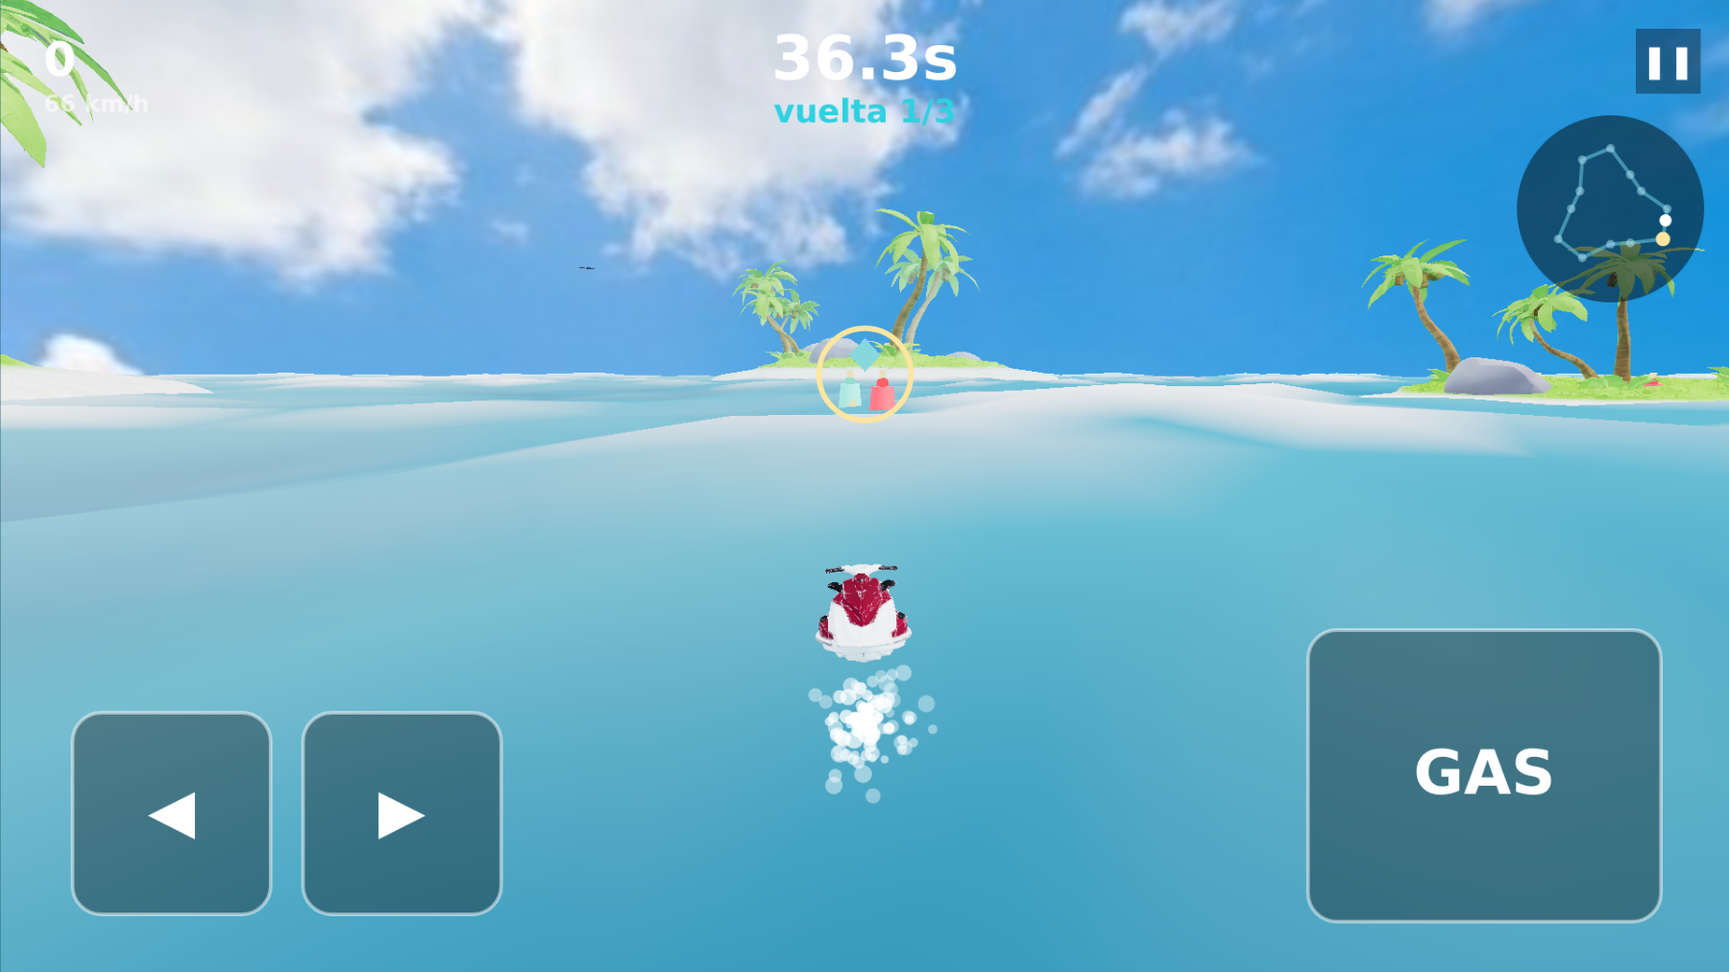
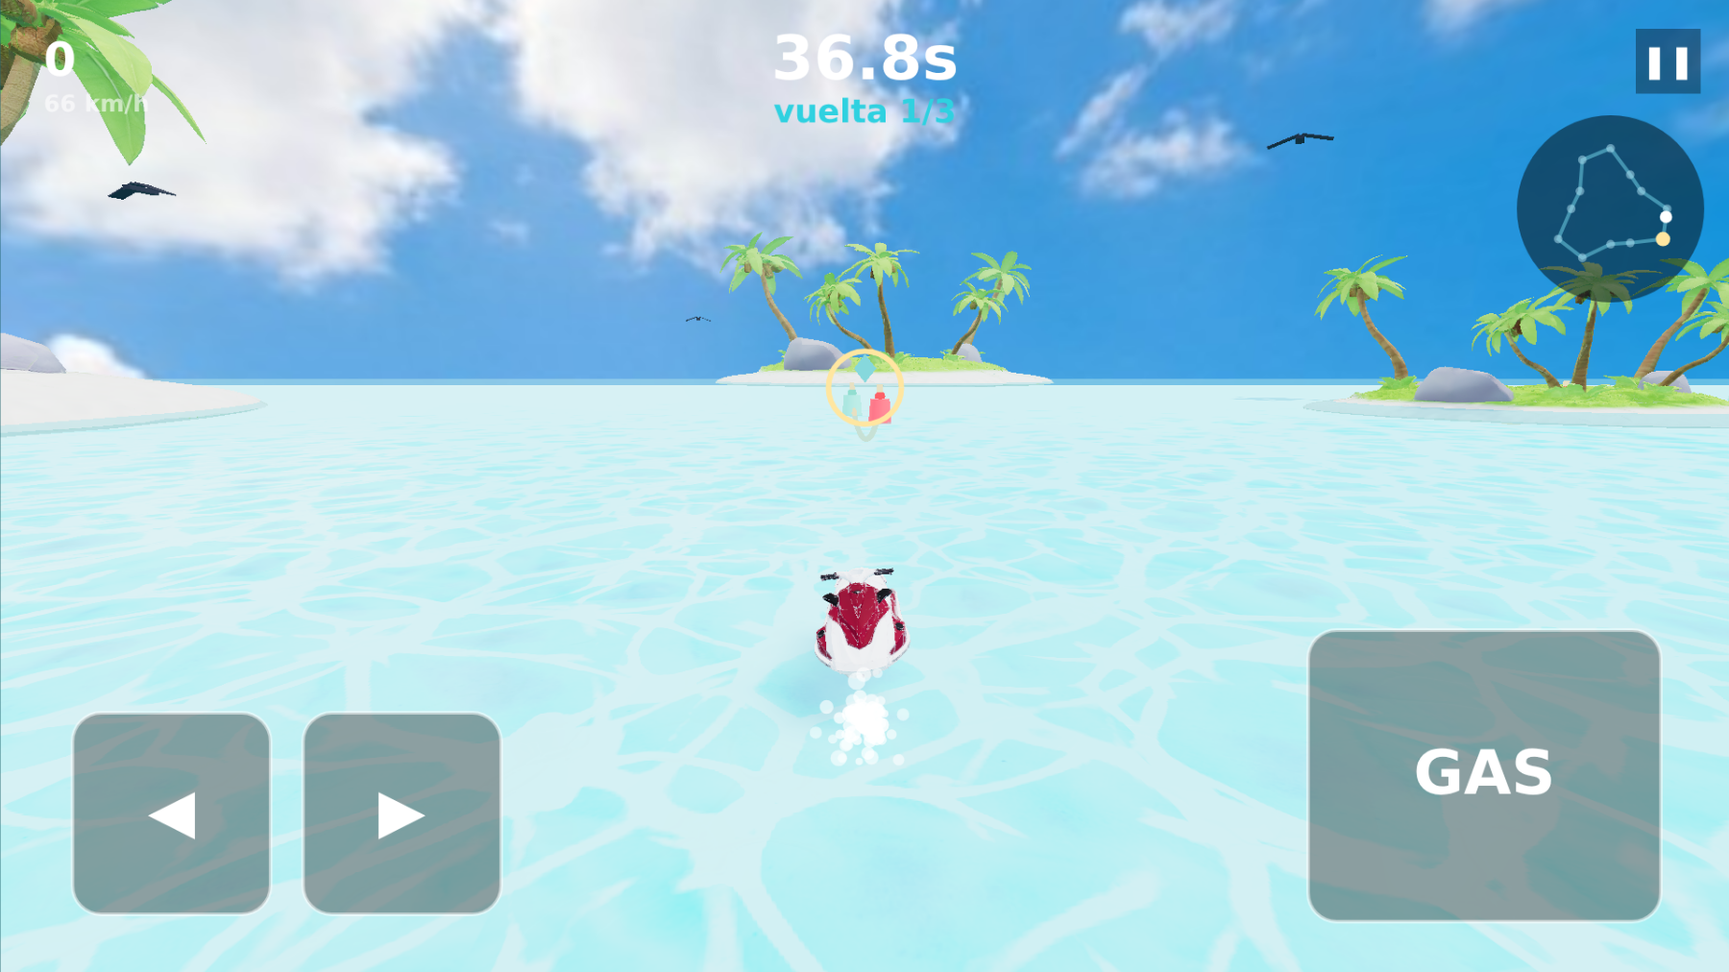
MAREA agua cristalina de pileta (arena + causticas animadas, olitas finas) + sombras en tiempo real
- agua transparente sobre fondo de ARENA con CAUSTICAS aditivas que titilan
  (como pileta), ripple fino por bumpMap animado, reflejo del cielo
- olitas mas chicas y numerosas; la moto flota/cabecea con fisica sobre ellas
- shadowMap PCFSoft en el motor; MAREA y ALAS proyectan sombras (sol castShadow),
  y las piezas de LIFE (islas/palmeras/gente) castean/reciben sombra

Claude-Session: https://claude.ai/code/session_01LeCMTwoYHMT9fB8r5t3yQe

diff --git a/scratchpad/g3/g_marea.js b/scratchpad/g3/g_marea.js
@@ -1,13 +1,12 @@
-/* ===== MAREA — moto de agua (laguna tropical de día) =======================
-   CIRCUITO de boyas sobre un océano con OLAS REALES (malla desplazada +
-   espuma en las crestas + reflejo del cielo). La moto FLOTA con físicas:
-   rebota, cabecea y se inclina según el oleaje. Islas 3D grandes. 3 modos.
-   Controles: ◀ ▶ + acelerador (multitáctil) / A-D + W. */
+/* ===== MAREA — moto de agua (laguna tropical cristalina) ===================
+   Agua tipo pileta: CRISTALINA, se ve la ARENA del fondo con CÁUSTICAS que
+   titilan, olitas chiquitas y muchas, reflejo del cielo y SOMBRAS en tiempo
+   real. La moto flota con físicas. Circuito de boyas · 3 modos. */
 window.GAME = (function () {
 let T, scene, cam, ren;
 let craft, sx, sz, yaw, v, bank, timeLeft, score, streak, dead, tPlay, won;
 let craftY, cvy, pitchP, rollP;
-let keys = {}, water = null, waterGeo = null, baseXZ = null, colAttr = null, sprayT = 0;
+let keys = {}, water = null, caus1 = null, caus2 = null, sprayT = 0;
 let GATES = [], gGroups = [], gi = 0, laps = 0, mark = null;
 let pad = null, ISL = [], vCruise = 18, vMax = 34, autoIx = null, autoBoost = false;
 
@@ -16,63 +15,59 @@ try { cfg.modo = localStorage.getItem('marea_modo') || 'circuito'; cfg.dif = loc
 const DIF = { chill: { v: 25, t: 45, laps: 2 }, normal: { v: 31, t: 38, laps: 3 }, pro: { v: 39, t: 32, laps: 3 } };
 const NG = 12;
 
-/* olas: suma de senos multi-octava (oleaje grande + chop fino) */
+/* olitas: muchas y chiquitas (agua de pileta, casi plana) */
 function waveH(x, z, t) {
-  return Math.sin(x * .05 + t * 1.4) * .7
-       + Math.sin(z * .043 - t * 1.0) * .8
-       + Math.sin((x + z) * .09 + t * 1.8) * .68
-       + Math.sin((x * .9 - z * .6) * .16 + t * 2.4) * .5
-       + Math.sin((x * 1.5 + z * 1.1) * .24 - t * 3.2) * .3;
-}
-// color por altura: cresta blanca (espuma), valle turquesa profundo → NO flat
-function foamCol(h, c, i) {
-  const f = h > .8 ? Math.min(1, (h - .8) / .8) : 0;      // espuma en crestas
-  const d = h < 0 ? Math.min(1, -h / 1.6) : 0;            // profundidad en valles
-  c[i] = .035 * (1 - d * .4) + f * .965;
-  c[i + 1] = (.30 - d * .15) + f * .70;
-  c[i + 2] = (.44 - d * .18) + f * .56;
+  return Math.sin(x * .18 + t * 1.6) * .14 + Math.sin(z * .16 - t * 1.3) * .15
+       + Math.sin((x + z) * .30 + t * 2.4) * .07 + Math.sin((x * 1.1 - z * .7) * .5 + t * 3.4) * .04;
 }
 
-function buildCircuit() {
-  GATES = [];
-  for (let i = 0; i < NG; i++) { const a = i / NG * 6.283; const r = 155 * (.82 + .26 * Math.sin(a * 3 + .6));
-    GATES.push({ x: Math.cos(a) * r, z: Math.sin(a) * r }); }
-}
+function buildCircuit() { GATES = [];
+  for (let i = 0; i < NG; i++) { const a = i / NG * 6.283; const r = 155 * (.82 + .26 * Math.sin(a * 3 + .6)); GATES.push({ x: Math.cos(a) * r, z: Math.sin(a) * r }); } }
 
 async function init3d(THREE) {
   T = THREE; scene = ARC.scene; cam = ARC.cam; ren = ARC.renderer;
   const tl = new T.TextureLoader();
   const sky = tl.load(TEX.sky); sky.mapping = T.EquirectangularReflectionMapping; sky.colorSpace = T.SRGBColorSpace;
   scene.background = sky; scene.environment = sky;
-  scene.fog = new T.Fog(0xbfe4ee, 180, 560);
-  scene.add(new T.HemisphereLight(0xffffff, 0x2a6a8a, 1.35));
-  scene.add(new T.AmbientLight(0xffffff, .35));
-  const sun = new T.DirectionalLight(0xfff4e0, 2.7); sun.position.set(-40, 40, -30); scene.add(sun);
+  scene.fog = new T.Fog(0xbfe8f0, 220, 620);
+  scene.add(new T.HemisphereLight(0xffffff, 0x3aa0c0, 1.2));
+  scene.add(new T.AmbientLight(0xffffff, .3));
+  const sun = new T.DirectionalLight(0xfff6e6, 2.6); sun.position.set(-50, 95, -35);
+  sun.castShadow = true; sun.shadow.mapSize.set(1024, 1024);
+  const sc = sun.shadow.camera; sc.left = -130; sc.right = 130; sc.top = 130; sc.bottom = -130; sc.near = 1; sc.far = 220; sun.shadow.bias = -0.0006;
+  scene.add(sun);
   ren.toneMappingExposure = 1.16;
-  // OCÉANO con olas reales + espuma (color por vértice) + reflejo del cielo
-  waterGeo = new T.PlaneGeometry(1100, 1100, 96, 96); waterGeo.rotateX(-Math.PI / 2);
-  const pos = waterGeo.attributes.position; baseXZ = Float32Array.from(pos.array);
-  colAttr = new T.Float32BufferAttribute(new Float32Array(pos.count * 3), 3); waterGeo.setAttribute('color', colAttr);
-  water = new T.Mesh(waterGeo, new T.MeshStandardMaterial({ vertexColors: true, roughness: .26, metalness: .1, envMap: sky, envMapIntensity: .6 }));
-  scene.add(water);
-  const glint = new T.PointLight(0xffffff, 1.6, 140); glint.position.set(-30, 10, -40); scene.add(glint);
+  const rep = (u, n) => { const t = tl.load(u); t.wrapS = t.wrapT = T.RepeatWrapping; t.repeat.set(n, n); t.colorSpace = T.SRGBColorSpace; return t; };
+  // FONDO de arena (se ve a través del agua) — recibe sombras
+  const sand = new T.Mesh(new T.PlaneGeometry(1300, 1300), new T.MeshStandardMaterial({ map: rep(TEX.sand, 34), color: 0xcdeef2, roughness: 1 }));
+  sand.rotation.x = -Math.PI / 2; sand.position.y = -4; sand.receiveShadow = true; scene.add(sand);
+  // CÁUSTICAS: dos capas aditivas que se desplazan → titilan sobre la arena
+  const cauMat = (n, o) => new T.MeshBasicMaterial({ map: rep(TEX.caustics, n), transparent: true, blending: T.AdditiveBlending, depthWrite: false, opacity: o });
+  caus1 = new T.Mesh(new T.PlaneGeometry(1300, 1300), cauMat(16, .55)); caus1.rotation.x = -Math.PI / 2; caus1.position.y = -3.7; scene.add(caus1);
+  caus2 = new T.Mesh(new T.PlaneGeometry(1300, 1300), cauMat(11, .4)); caus2.rotation.x = -Math.PI / 2; caus2.position.y = -3.55; scene.add(caus2);
+  // AGUA cristalina (transparente, refleja el cielo, ripple por bumpMap animado)
+  const bump = rep(TEX.caustics, 60);
+  water = new T.Mesh(new T.PlaneGeometry(1300, 1300, 1, 1), new T.MeshStandardMaterial({
+    color: 0x37cfe6, transparent: true, opacity: .5, roughness: .12, metalness: .05,
+    envMap: sky, envMapIntensity: .55, bumpMap: bump, bumpScale: .16, depthWrite: false }));
+  water.rotation.x = -Math.PI / 2; water.position.y = 0; water.receiveShadow = true; scene.add(water);
   // MOTO DE AGUA
   let m = null;
   try { const g = await ARC.loadGLB(MDL.craft); m = g.scene;
     const b = new T.Box3().setFromObject(m); const s = b.getSize(new T.Vector3());
     m.scale.setScalar(3.6 / (Math.max(s.x, s.z) || 1));
-    m.traverse(o => { if (o.isMesh) { o.frustumCulled = false; if (o.material) { o.material.metalness = Math.min(o.material.metalness || 0, .4); o.material.envMapIntensity = .6; } } });
+    m.traverse(o => { if (o.isMesh) { o.frustumCulled = false; o.castShadow = true; if (o.material) { o.material.metalness = Math.min(o.material.metalness || 0, .4); o.material.envMapIntensity = .6; } } });
     const ctr = new T.Box3().setFromObject(m).getCenter(new T.Vector3()); m.position.sub(ctr);
     m.rotation.y = Math.PI / 2; m.updateWorldMatrix(true, true); m.position.y -= new T.Box3().setFromObject(m).min.y;
   } catch (e) {}
   if (!m) { m = new T.Group();
-    const hull = new T.Mesh(new T.BoxGeometry(1.5, .7, 3.6), new T.MeshStandardMaterial({ color: 0xd83a3a, roughness: .5, metalness: .2 })); hull.geometry.translate(0, .35, 0); m.add(hull);
+    const hull = new T.Mesh(new T.BoxGeometry(1.5, .7, 3.6), new T.MeshStandardMaterial({ color: 0xd83a3a, roughness: .5, metalness: .2 })); hull.geometry.translate(0, .35, 0); hull.castShadow = true; m.add(hull);
     const nose = new T.Mesh(new T.ConeGeometry(.7, 1.3, 4), new T.MeshStandardMaterial({ color: 0xf0f0f0, roughness: .4 })); nose.rotation.x = Math.PI / 2; nose.position.set(0, .55, 2.1); m.add(nose); }
   craft = new T.Group(); craft.add(m); scene.add(craft);
   // CIRCUITO de boyas
   buildCircuit();
   const buoy = (col, dx) => { const gg = new T.Group();
-    const body = new T.Mesh(new T.CylinderGeometry(.9, 1.1, 2.2, 10), new T.MeshStandardMaterial({ color: col, roughness: .5, emissive: col, emissiveIntensity: .4 })); body.position.y = 1; gg.add(body);
+    const body = new T.Mesh(new T.CylinderGeometry(.9, 1.1, 2.2, 10), new T.MeshStandardMaterial({ color: col, roughness: .5, emissive: col, emissiveIntensity: .4 })); body.position.y = 1; body.castShadow = true; gg.add(body);
     const top = new T.Mesh(new T.SphereGeometry(.5, 8, 8), new T.MeshBasicMaterial({ color: col })); top.position.y = 2.3; gg.add(top); gg.position.x = dx; return gg; };
   gGroups = [];
   for (let i = 0; i < NG; i++) { const grp = new T.Group();
@@ -80,12 +75,11 @@ async function init3d(THREE) {
     const arcm = new T.Mesh(new T.TorusGeometry(5.5, .28, 8, 24, Math.PI), new T.MeshBasicMaterial({ color: 0xffe6a0 })); arcm.position.y = 3.4; arcm.rotation.z = Math.PI; grp.add(arcm);
     const nx = GATES[(i + 1) % NG], cur = GATES[i]; grp.position.set(cur.x, 0, cur.z); grp.lookAt(nx.x, 0, nx.z); scene.add(grp); gGroups.push(grp); }
   mark = new T.Mesh(new T.OctahedronGeometry(1.4), new T.MeshBasicMaterial({ color: 0x2fd1e0 })); scene.add(mark);
-  // ---- ISLAS GRANDES (GLB si cargó; procedural de respaldo) + gente + pájaros ----
+  // ISLAS GRANDES (GLB) con sombras + gente + pájaros
   LIFE.setup(T);
   let palmRoot = null; try { const pg = await ARC.loadGLB(MDL.palm); palmRoot = pg.scene; } catch (e) {}
   const mkPalm = LIFE.palmTemplate(palmRoot);
-  let islTpl = null; try { const ig = await ARC.loadGLB(MDL.island); islTpl = ig.scene;
-    islTpl.traverse(o => { if (o.isMesh) { o.frustumCulled = true; if (o.material) o.material.metalness = 0; } }); } catch (e) {}
+  let islTpl = null; try { const ig = await ARC.loadGLB(MDL.island); islTpl = ig.scene; islTpl.traverse(o => { if (o.isMesh) { o.castShadow = true; o.receiveShadow = true; if (o.material) o.material.metalness = 0; } }); } catch (e) {}
   ISL = [{ x: 0, z: 0, r: 40 }, { x: -84, z: 62, r: 30 }, { x: 74, z: -64, r: 30 }, { x: 44, z: 96, r: 26 }, { x: -96, z: -84, r: 28 },
     { x: 290, z: 90, r: 78 }, { x: -310, z: -60, r: 82 }, { x: 96, z: 330, r: 76 }, { x: -160, z: -330, r: 80 }];
   for (const s of ISL) {
@@ -94,9 +88,8 @@ async function init3d(THREE) {
       const b2 = new T.Box3().setFromObject(m2); m2.position.set(s.x, -b2.min.y - 1.4, s.z); m2.rotation.y = Math.random() * 6.28; scene.add(m2); }
     else LIFE.island(scene, s.x, s.z, s.r, mkPalm);
   }
-  // gente saludando en la isla central
   scene.add(LIFE.npc(10, ISL[0].r * .32, 6, 0x3a7bd5)); scene.add(LIFE.npc(-8, ISL[0].r * .32, -10, 0xffd23f));
-  LIFE.flock(scene, { count: 18, area: 300, ylo: 18, yhi: 60 });
+  LIFE.flock(scene, { count: 20, area: 300, ylo: 18, yhi: 60 });
   pad = LIFE.pad({ onPause: () => window.ARC_pause() });
   setupMenu();
 }
@@ -114,20 +107,16 @@ function setupMenu() {
   const mk = (key, opts) => { const lab = document.createElement('div'); lab.className = 'lab'; lab.textContent = key === 'modo' ? 'MODO' : 'DIFICULTAD'; box.appendChild(lab);
     const row = document.createElement('div'); row.className = 'row';
     opts.forEach(([val, txt]) => { const b = document.createElement('div'); b.className = 'op' + (cfg[key] === val ? ' on' : ''); b.textContent = txt;
-      b.addEventListener('click', ev => { ev.stopPropagation(); cfg[key] = val; try { localStorage.setItem('marea_' + key, val); } catch (e) {}
-        row.querySelectorAll('.op').forEach(o => o.classList.remove('on')); b.classList.add('on'); }); row.appendChild(b); });
+      b.addEventListener('click', ev => { ev.stopPropagation(); cfg[key] = val; try { localStorage.setItem('marea_' + key, val); } catch (e) {} row.querySelectorAll('.op').forEach(o => o.classList.remove('on')); b.classList.add('on'); }); row.appendChild(b); });
     box.appendChild(row); };
   mk('modo', [['circuito', '🏁 CIRCUITO'], ['contra', '⏱ CONTRARRELOJ'], ['libre', '🌅 LIBRE']]);
   mk('dif', [['chill', 'CHILL'], ['normal', 'NORMAL'], ['pro', 'PRO']]);
   menu.appendChild(box);
 }
 
-function placeGateAhead() {
-  const a = yaw + ARC.rnd(-.6, .6), d = ARC.rnd(58, 88);
-  const x = sx + Math.sin(a) * d, z = sz + Math.cos(a) * d;
-  const L = Math.hypot(x, z); GATES[gi] = { x: L > 300 ? x * 300 / L : x, z: L > 300 ? z * 300 / L : z };
-  gGroups[gi].position.set(GATES[gi].x, 0, GATES[gi].z); gGroups[gi].lookAt(sx, 0, sz);
-}
+function placeGateAhead() { const a = yaw + ARC.rnd(-.6, .6), d = ARC.rnd(58, 88);
+  const x = sx + Math.sin(a) * d, z = sz + Math.cos(a) * d; const L = Math.hypot(x, z);
+  GATES[gi] = { x: L > 300 ? x * 300 / L : x, z: L > 300 ? z * 300 / L : z }; gGroups[gi].position.set(GATES[gi].x, 0, GATES[gi].z); gGroups[gi].lookAt(sx, 0, sz); }
 
 function start() {
   const d = DIF[cfg.dif] || DIF.normal; buildCircuit();
@@ -140,18 +129,16 @@ function start() {
 }
 
 function worldToScreen(x, y, z) { const p = new T.Vector3(x, y, z).project(cam); if (p.z > 1) return null; return { x: (p.x * .5 + .5) * ARC.W, y: (-p.y * .5 + .5) * ARC.H }; }
-
-function endWin() { won = true; dead = true; const bonus = Math.round(timeLeft * 6);
-  ARC.over({ win: true, score: score + bonus, title: '¡CAMPEÓN!', sub: laps + ' vueltas · +' + bonus + ' por tiempo', coins: ((score + bonus) / 30 | 0) }); }
+function endWin() { won = true; dead = true; const bonus = Math.round(timeLeft * 6); ARC.over({ win: true, score: score + bonus, title: '¡CAMPEÓN!', sub: laps + ' vueltas · +' + bonus + ' por tiempo', coins: ((score + bonus) / 30 | 0) }); }
 
 function step(dt) {
   if (dead) return; tPlay += dt;
   if (cfg.modo !== 'libre') { timeLeft -= dt;
     if (timeLeft <= 0) { timeLeft = 0; dead = true; ARC.over({ win: score >= 500, score, title: score >= 500 ? '¡BUENA!' : 'SE ACABÓ', coins: (score / 30 | 0) }); return; } }
-  // olas: desplazar vértices + espuma en las crestas (color por vértice)
-  const p = waterGeo.attributes.position.array, c = colAttr.array;
-  for (let i = 0; i < p.length; i += 3) { const h = waveH(baseXZ[i], baseXZ[i + 2], tPlay); p[i + 1] = h; foamCol(h, c, i); }
-  waterGeo.attributes.position.needsUpdate = true; colAttr.needsUpdate = true; waterGeo.computeVertexNormals();
+  // agua: cáusticas + ripple se desplazan (titilan) — sin tocar vértices (barato)
+  const t = tPlay;
+  caus1.material.map.offset.set(t * .012, t * .009); caus2.material.map.offset.set(-t * .009, t * .013);
+  water.material.bumpMap.offset.set(t * .02, t * .016);
   // dirección + acelerador
   let ix = pad ? pad.steer : 0;
   if (keys.KeyA || keys.ArrowLeft) ix = -1; if (keys.KeyD || keys.ArrowRight) ix = 1;
@@ -163,28 +150,24 @@ function step(dt) {
   const L = Math.hypot(sx, sz); if (L > 300) { sx *= 300 / L; sz *= 300 / L; }
   for (const s of ISL) { const dx = sx - s.x, dz = sz - s.z, dd = Math.hypot(dx, dz), rr = s.r + 2.5;
     if (dd < rr && dd > .001) { sx = s.x + dx / dd * rr; sz = s.z + dz / dd * rr; v *= .55; ARC.shake(4); } }
-  // ---- FÍSICA en el agua: flota (resorte), cabecea y rola con el oleaje ----
-  const wy = waveH(sx, sz, tPlay), tgt = wy + .25, preVy = cvy;
+  // FÍSICA en el agua: flota (resorte), cabecea/rola con las olitas
+  const wy = waveH(sx, sz, t), tgt = wy + .22, preVy = cvy;
   cvy += (tgt - craftY) * dt * 42 - cvy * dt * 6.5; craftY += cvy * dt;
-  const e = 2.2, hx = waveH(sx + e, sz, tPlay) - waveH(sx - e, sz, tPlay), hz = waveH(sx, sz + e, tPlay) - waveH(sx, sz - e, tPlay);
+  const e = 2.2, hx = waveH(sx + e, sz, t) - waveH(sx - e, sz, t), hz = waveH(sx, sz + e, t) - waveH(sx, sz - e, t);
   const fx = Math.sin(yaw), fz = Math.cos(yaw);
   const slopeF = (hx * fx + hz * fz) / (2 * e), slopeS = (hx * fz - hz * fx) / (2 * e);
-  pitchP += (ARC.clamp(slopeF * 1.3, -.5, .5) - pitchP) * Math.min(1, dt * 5); rollP += (ARC.clamp(-slopeS * 1.3, -.5, .5) - rollP) * Math.min(1, dt * 5);
+  pitchP += (ARC.clamp(slopeF * 2.4, -.4, .4) - pitchP) * Math.min(1, dt * 5); rollP += (ARC.clamp(-slopeS * 2.4, -.4, .4) - rollP) * Math.min(1, dt * 5);
   craft.position.set(sx, craftY, sz);
   craft.rotation.set(0, 0, 0); craft.rotateY(yaw + Math.PI); craft.rotateZ(-bank + rollP); craft.rotateX(-pitchP - .04);
   const cd = 10; cam.position.set(sx - Math.sin(yaw) * cd, craftY + 4.2, sz - Math.cos(yaw) * cd);
   cam.lookAt(sx + Math.sin(yaw) * 8, craftY + 1.2, sz + Math.cos(yaw) * 8);
-  // boyas flotan, marcador sobre la activa
-  for (let i = 0; i < NG; i++) if (gGroups[i].visible) gGroups[i].position.y = waveH(GATES[i].x, GATES[i].z, tPlay);
-  const g = GATES[gi], gy = waveH(g.x, g.z, tPlay);
-  mark.position.set(g.x, gy + 5 + Math.sin(tPlay * 3) * .4, g.z); mark.rotation.y += dt * 2;
+  for (let i = 0; i < NG; i++) if (gGroups[i].visible) gGroups[i].position.y = waveH(GATES[i].x, GATES[i].z, t);
+  const g = GATES[gi], gy = waveH(g.x, g.z, t);
+  mark.position.set(g.x, gy + 5 + Math.sin(t * 3) * .4, g.z); mark.rotation.y += dt * 2;
   LIFE.update(dt);
-  // spray de agua: al andar, más al acelerar/virar, y SALPICÓN al caer de una cresta
   sprayT -= dt; if (sprayT <= 0) { sprayT = .035; const bp = worldToScreen(sx - Math.sin(yaw) * 2, craftY - .1, sz - Math.cos(yaw) * 2);
-    if (bp) { const n = boosting ? 5 : 3, sp2 = boosting ? 3.4 : 2.4; ARC.fx.burst(bp.x, bp.y, 'rgba(255,255,255,.92)', n, sp2);
-      if (Math.abs(bank) > .2) ARC.fx.burst(bp.x, bp.y, 'rgba(205,238,255,.85)', 3, 3.6); } }
-  if (preVy < -5 && cvy > preVy + 2) { const bp = worldToScreen(sx, craftY - .2, sz); if (bp) { ARC.fx.burst(bp.x, bp.y, 'rgba(255,255,255,.95)', 10, 5); ARC.shake(3); ARC.sfx('tap', { vol: .2, rate: .6 }); } }
-  // ¿cruzó la boya activa?
+    if (bp) { const n = boosting ? 5 : 3, sp2 = boosting ? 3.4 : 2.4; ARC.fx.burst(bp.x, bp.y, 'rgba(255,255,255,.92)', n, sp2); if (Math.abs(bank) > .2) ARC.fx.burst(bp.x, bp.y, 'rgba(205,238,255,.85)', 3, 3.6); } }
+  if (preVy < -4 && cvy > preVy + 2) { const bp = worldToScreen(sx, craftY - .2, sz); if (bp) { ARC.fx.burst(bp.x, bp.y, 'rgba(255,255,255,.95)', 9, 5); ARC.shake(2); } }
   const d2 = (sx - g.x) ** 2 + (sz - g.z) ** 2;
   if (d2 < 34) {
     streak++; const bonus = 3 + Math.min(3, streak * .4); if (cfg.modo !== 'libre') timeLeft += bonus; score += 40 * Math.min(4, streak);
@@ -222,10 +205,8 @@ function draw2d(g) {
 
 let menuA = 0;
 function attract3d(dt) { menuA += dt * .4; tPlay = (tPlay || 0) + dt;
-  if (waterGeo) { const p = waterGeo.attributes.position.array, c = colAttr.array;
-    for (let i = 0; i < p.length; i += 3) { const h = waveH(baseXZ[i], baseXZ[i + 2], tPlay); p[i + 1] = h; foamCol(h, c, i); }
-    waterGeo.attributes.position.needsUpdate = true; colAttr.needsUpdate = true; waterGeo.computeVertexNormals(); }
-  if (craft) { const wy = waveH(0, 0, tPlay); craft.position.set(0, wy + .25, 0); craft.rotation.set(0, menuA, 0); }
+  if (caus1) { caus1.material.map.offset.set(tPlay * .012, tPlay * .009); caus2.material.map.offset.set(-tPlay * .009, tPlay * .013); water.material.bumpMap.offset.set(tPlay * .02, tPlay * .016); }
+  if (craft) { const wy = waveH(0, 0, tPlay); craft.position.set(0, wy + .22, 0); craft.rotation.set(0, menuA, 0); }
   if (cam) { cam.position.set(Math.cos(menuA) * 13, 4.6 + Math.sin(menuA * .7) * 1.2, Math.sin(menuA) * 13); cam.lookAt(0, 1.2, 0); }
   if (window.LIFE) LIFE.update(dt);
 }

diff --git a/scratchpad/g3/g_alas.js b/scratchpad/g3/g_alas.js
@@ -15,7 +15,10 @@ async function init3d(THREE) {
   scene.fog = new T.Fog(0xf2d9a8, 90, 320);
   scene.add(new T.HemisphereLight(0xfff2d0, 0xc89858, 1.7));
   scene.add(new T.AmbientLight(0xffffff, .5));
-  const sun = new T.DirectionalLight(0xffe8c0, 2.4); sun.position.set(-30, 14, -40); scene.add(sun);
+  const sun = new T.DirectionalLight(0xffe8c0, 2.4); sun.position.set(-30, 80, -40);
+  sun.castShadow = true; sun.shadow.mapSize.set(1024, 1024);
+  { const s = sun.shadow.camera; s.left = -80; s.right = 80; s.top = 80; s.bottom = -80; s.near = 1; s.far = 260; sun.shadow.bias = -0.0006; }
+  scene.add(sun);
   ren.toneMappingExposure = 1.15;
   // nubes: planos blancos suaves esparcidos (impostores baratos)
   // nubes volumétricas baratas: sprites suaves que SIEMPRE miran a la cámara
@@ -37,7 +40,7 @@ async function init3d(THREE) {
   const g = await ARC.loadGLB(MDL.ship); const m = g.scene;
   const box = new T.Box3().setFromObject(m); const szv = box.getSize(new T.Vector3());
   m.scale.setScalar(3.2 / (Math.max(szv.x, szv.z) || 1));
-  m.traverse(o => { if (o.isMesh) { o.frustumCulled = false; if (o.material) o.material.metalness = .3; } });
+  m.traverse(o => { if (o.isMesh) { o.frustumCulled = false; o.castShadow = true; if (o.material) o.material.metalness = .3; } });
   const ctr = new T.Box3().setFromObject(m).getCenter(new T.Vector3());
   m.position.sub(ctr);
   m.rotation.y = Math.PI / 2;            // el modelo viene de perfil: proa hacia adelante

diff --git a/scratchpad/g3/life.js b/scratchpad/g3/life.js
@@ -29,7 +29,8 @@ window.LIFE = (function () {
     const body = new T.Mesh(new T.CapsuleGeometry(.28, .7, 4, 8), new T.MeshStandardMaterial({ color: col, roughness: .7 })); body.position.y = .65; g.add(body);
     const head = new T.Mesh(new T.SphereGeometry(.26, 10, 10), new T.MeshStandardMaterial({ color: 0xe8b98a, roughness: .8 })); head.position.y = 1.28; g.add(head);
     const arm = new T.Mesh(new T.CapsuleGeometry(.09, .5, 4, 6), new T.MeshStandardMaterial({ color: col, roughness: .7 })); arm.position.set(.34, .95, 0); g.add(arm);
-    wavers.push({ arm, ph: Math.random() * 6.28 }); return g;
+    wavers.push({ arm, ph: Math.random() * 6.28 });
+    g.traverse(o => { if (o.isMesh) o.castShadow = true; }); return g;
   }
 
   /* isla de arena con palmeras, sombrilla y gente */
@@ -48,6 +49,7 @@ window.LIFE = (function () {
     if (opts.npc !== false) { const cols = [0x3a7bd5, 0xffd23f, 0xff7043, 0xffffff];
       const nn = 1 + (Math.random() * 2 | 0); for (let i = 0; i < nn; i++) { const a = Math.random() * 6.28, rr = r * (.2 + Math.random() * .4);
         g.add(npc(Math.cos(a) * rr, r * .07, Math.sin(a) * rr, cols[Math.random() * cols.length | 0])); } }
+    g.traverse(o => { if (o.isMesh) { o.castShadow = true; o.receiveShadow = true; } });
     scene.add(g); return g;
   }
 

diff --git a/scratchpad/g3/shell.js b/scratchpad/g3/shell.js
@@ -206,6 +206,7 @@ async function boot() {
     const gm = await import(GLTFURL); GLTF = gm.GLTFLoader;
     renderer = new THREE.WebGLRenderer({ canvas: gl, antialias: false, powerPreference: 'high-performance', preserveDrawingBuffer: true });
     renderer.outputColorSpace = THREE.SRGBColorSpace; renderer.toneMapping = THREE.ACESFilmicToneMapping; renderer.toneMappingExposure = 1.05;
+    renderer.shadowMap.enabled = true; renderer.shadowMap.type = THREE.PCFSoftShadowMap;   // sombras en tiempo real (los juegos activan castShadow)
     scene = new THREE.Scene();
     cam = new THREE.PerspectiveCamera(70, LW / LH, .1, 400);
     fit();

diff --git a/scratchpad/g3/build.js b/scratchpad/g3/build.js
@@ -38,7 +38,7 @@ const META = {
   marea: { name: 'MAREA', sub: 'laguna tropical',
     art: 'assets/g3/art-marea.jpg', music: 'assets/g3/mus-marea.m4a',  sky: '#3fb9c9', acc: '#2fd1e0',
     mdl: { craft: 'assets/g3/mdl-marea.glb', palm: 'assets/g3/mdl-palm.glb', island: 'assets/g3/mdl-island.glb' },
-    tex: { sky: 'assets/g3/sky-marea.jpg', agua: 'assets/g3/tex-agua.jpg' } }
+    tex: { sky: 'assets/g3/sky-marea.jpg', sand: 'assets/g3/tex-sand.jpg', caustics: 'assets/g3/tex-caustics.jpg' } }
 };
 const SFXN = ['shoot', 'boom', 'coin', 'win', 'lose', 'power', 'swipe'];
 
